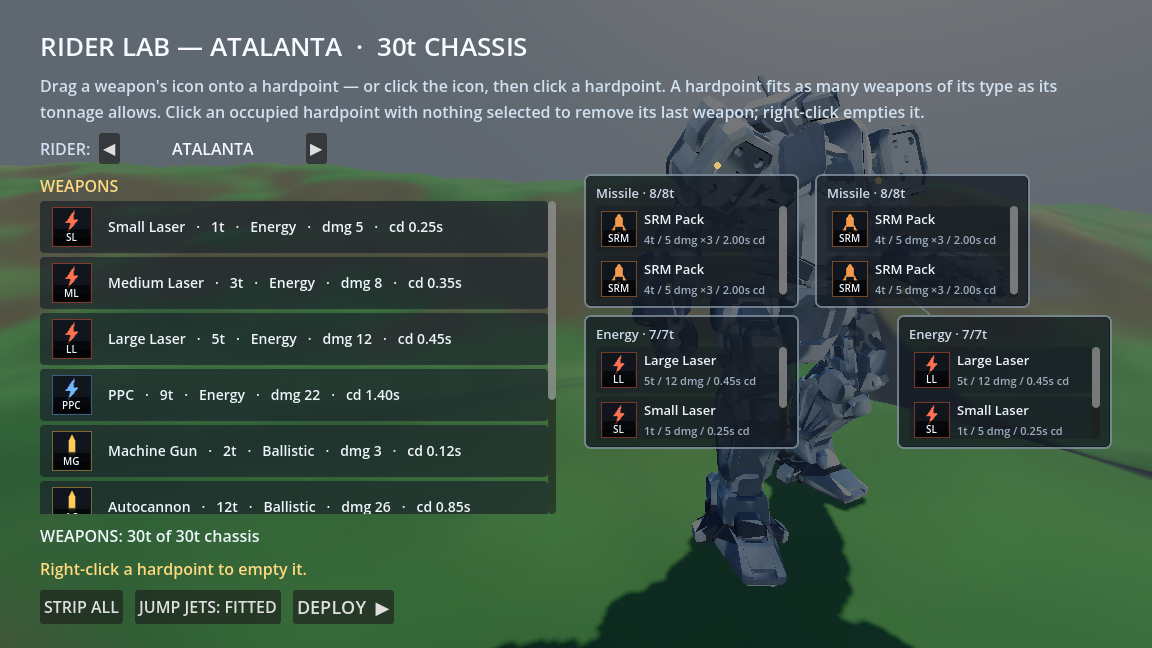
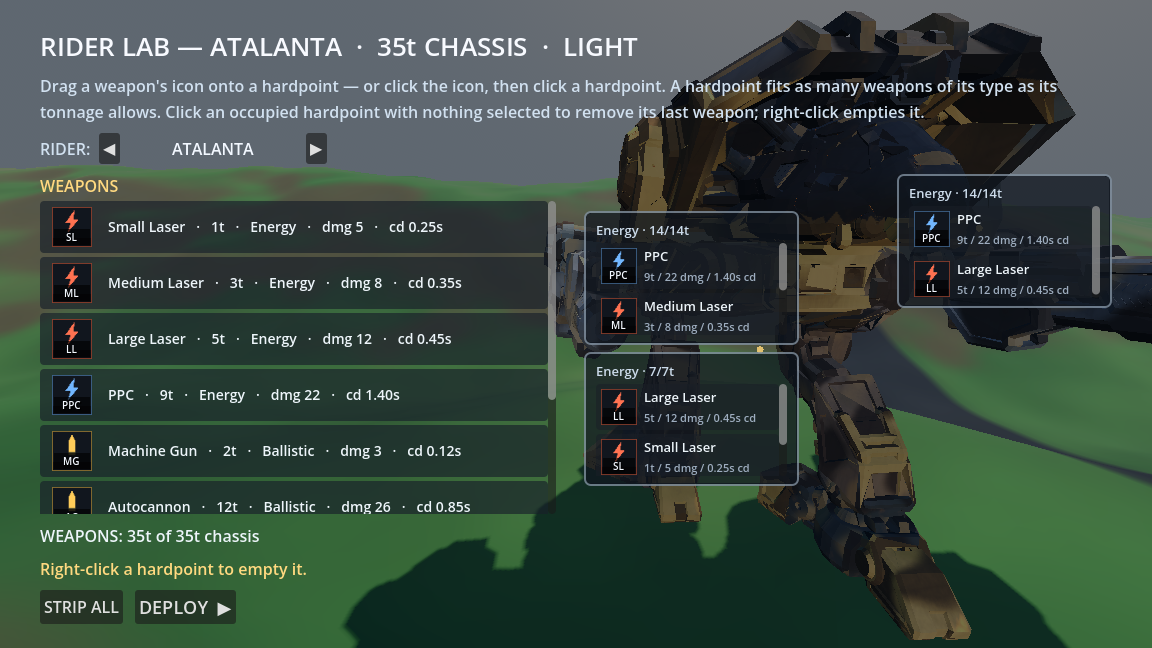
Renames: Apollo -> Atalanta (Adder), Atalanta -> Perseus (Cheetah); lab shows weight class; fused riders render double-sided
Spec ids/names and parts branches renamed to match. RiderSpec
gains ClassLabel (Light <40t, Medium <60t, Heavy 60t+) and the
lab title now reads e.g. 'ATALANTA · 35t CHASSIS · LIGHT'. The
cut-from-one-shell riders (atalanta, perseus) get double-sided
materials in RiderParts so open part seams show the dark interior
instead of see-through holes (owner's gun report).

Changed region(s): [[0.125, 0.0, 1.0, 1.0], [0.0625, 0.2469, 0.4062, 0.2778], [0.4688, 0.0617, 0.5625, 0.0926]]

diff --git a/godot/Data/RiderSpec.cs b/godot/Data/RiderSpec.cs
@@ -15,6 +15,9 @@ public sealed class RiderSpec
     public string Id;
     public string Name;
     public float Tonnage;
+    // Weight class for the lab label (owner, 2026-11-01):
+    // Light under 40t, Medium under 60t, Heavy from 60t.
+    public string ClassLabel => Tonnage < 40f ? "LIGHT" : Tonnage < 60f ? "MEDIUM" : "HEAVY";
     public bool JumpCapable; // chassis can mount jump jets (thrusters)
     public SlotDef[] Slots;
 
@@ -102,13 +105,13 @@ public static class RiderSpecs
 
     // Every chassis the lab can offer. Adding a rider = one new
     // RiderSpec + one entry here (+ its RiderParts layout and model).
-    // APOLLO (Adder ADR-Prime, 35t Light): the twin-PPC striker —
+    // ATALANTA (Adder ADR-Prime, 35t Light): the twin-PPC striker —
     // an energy mount in each arm and a small chest mount. Caps
     // sum to the 35t budget.
-    public static readonly RiderSpec Apollo = new()
+    public static readonly RiderSpec Atalanta = new()
     {
-        Id = "apollo", Name = "APOLLO", Tonnage = 35f, JumpCapable = false,
-        ModelPath = "res://assets/adder.fbx", PartsId = "apollo", MaxHp = 130f,
+        Id = "atalanta", Name = "ATALANTA", Tonnage = 35f, JumpCapable = false,
+        ModelPath = "res://assets/adder.fbx", PartsId = "atalanta", MaxHp = 130f,
         Height = 10.5f, Radius = 1.7f, StepTime = 0.44f, StepThreshold = 1.5f, StepLift = 0.8f, Accel = 5.0f, MaxSpeed = 4.2f,
         FlipKneePole = true,
         Slots = new[]
@@ -119,13 +122,13 @@ public static class RiderSpecs
         }
     };
 
-    // ATALANTA (Arctic Cheetah ACH-Prime, 30t Light): the fast
+    // PERSEUS (Arctic Cheetah ACH-Prime, 30t Light): the fast
     // jumper — an energy mount in each arm and an SRM pod on each
     // shoulder. Caps sum to the 30t budget.
-    public static readonly RiderSpec Atalanta = new()
+    public static readonly RiderSpec Perseus = new()
     {
-        Id = "atalanta", Name = "ATALANTA", Tonnage = 30f, JumpCapable = true,
-        ModelPath = "res://assets/cheetah.fbx", PartsId = "atalanta", MaxHp = 115f,
+        Id = "perseus", Name = "PERSEUS", Tonnage = 30f, JumpCapable = true,
+        ModelPath = "res://assets/cheetah.fbx", PartsId = "perseus", MaxHp = 115f,
         Height = 10.0f, Radius = 1.6f, StepTime = 0.40f, StepThreshold = 1.4f, StepLift = 0.85f, Accel = 5.4f, MaxSpeed = 4.2f,
         FlipKneePole = false, // digitigrade legs: the mid joint bends back
         Slots = new[]
@@ -137,7 +140,7 @@ public static class RiderSpecs
         }
     };
 
-    public static readonly RiderSpec[] All = { Enyo, Hector, Prometheus, Apollo, Atalanta };
+    public static readonly RiderSpec[] All = { Enyo, Hector, Prometheus, Atalanta, Perseus };
 
     public static RiderSpec ById(string id)
     {
@@ -252,16 +255,16 @@ public sealed class LoadoutState
     public static LoadoutState DefaultFor(RiderSpec spec) =>
         spec.Id == "hector" ? DefaultHector()
         : spec.Id == "prometheus" ? DefaultPrometheus()
-        : spec.Id == "apollo" ? DefaultApollo()
         : spec.Id == "atalanta" ? DefaultAtalanta()
+        : spec.Id == "perseus" ? DefaultPerseus()
         : DefaultEnyo();
 
-    public static LoadoutState DefaultAtalanta()
+    public static LoadoutState DefaultPerseus()
     {
         var l = new LoadoutState();
         l.JumpJets = true;
         // Every slot filled (owner, 2026-10-31): 30t of 30t.
-        var at = RiderSpecs.Atalanta;
+        var at = RiderSpecs.Perseus;
         l.TryAssign(at, "arm_L", WeaponCatalog.LargeLaser);
         l.TryAssign(at, "arm_L", WeaponCatalog.SmallLaser);
         l.TryAssign(at, "arm_L", WeaponCatalog.SmallLaser);        // 7/7t
@@ -275,12 +278,12 @@ public sealed class LoadoutState
         return l;
     }
 
-    public static LoadoutState DefaultApollo()
+    public static LoadoutState DefaultAtalanta()
     {
         var l = new LoadoutState();
         l.JumpJets = false; // the chassis cannot mount them
         // Every slot filled (owner, 2026-10-31): 35t of 35t.
-        var ap = RiderSpecs.Apollo;
+        var ap = RiderSpecs.Atalanta;
         l.TryAssign(ap, "arm_L", WeaponCatalog.Ppc);
         l.TryAssign(ap, "arm_L", WeaponCatalog.LargeLaser);        // 14/14t
         l.TryAssign(ap, "arm_R", WeaponCatalog.Ppc);

diff --git a/godot/RiderParts.cs b/godot/RiderParts.cs
@@ -160,7 +160,7 @@ public sealed class RiderParts
             AddPart("leg_R", "RIGHT LEG", 90f, byName,
                 "Thigh_R", "Knee_R", "Shin_R", "Foot_R");
         }
-        else if (riderId == "apollo")
+        else if (riderId == "atalanta")
         {
             // Adder miniature, cut at build time: the head is the
             // cockpit hood region split out of the Torso mesh.
@@ -177,7 +177,7 @@ public sealed class RiderParts
             AddPart("leg_L", "LEFT LEG", 65f, byName, "Thigh_L", "Shin_L", "Foot_L");
             AddPart("leg_R", "RIGHT LEG", 65f, byName, "Thigh_R", "Shin_R", "Foot_R");
         }
-        else if (riderId == "atalanta")
+        else if (riderId == "perseus")
         {
             // Arctic Cheetah miniature, cut at build time; the
             // shoulder pods are their own meshes. Head = cockpit
@@ -221,6 +221,35 @@ public sealed class RiderParts
         foreach (var part in _parts.Values)
             centers += $" {part.Id}={PartCenterWorld(part.Id)}";
         GD.Print(centers);
+
+        // The fused-miniature builds (atalanta, perseus) are cut
+        // from one shell, so their parts have open seams; with
+        // backface culling on, a seam reads as a see-through hole
+        // (owner report, 2026-11-01: visible through Atalanta's
+        // gun). Render those riders' materials double-sided so a
+        // seam shows the part's dark interior instead of the sky.
+        if (_riderId == "atalanta" || _riderId == "perseus")
+        {
+            var dupCache = new Dictionary<Material, Material>();
+            foreach (var part in _parts.Values)
+                foreach (var rec in part.Meshes)
+                {
+                    var mesh = rec.Mi.Mesh;
+                    if (mesh == null) continue;
+                    for (int si = 0; si < mesh.GetSurfaceCount(); si++)
+                    {
+                        var mat = rec.Mi.GetSurfaceOverrideMaterial(si) ?? mesh.SurfaceGetMaterial(si);
+                        if (mat is not StandardMaterial3D sm) continue;
+                        if (!dupCache.TryGetValue(sm, out var dup))
+                        {
+                            dup = (StandardMaterial3D)sm.Duplicate();
+                            ((StandardMaterial3D)dup).CullMode = BaseMaterial3D.CullModeEnum.Disabled;
+                            dupCache[sm] = dup;
+                        }
+                        rec.Mi.SetSurfaceOverrideMaterial(si, dup);
+                    }
+                }
+        }
     }
 
     // ---------- registry construction ----------

diff --git a/godot/RiderLab.cs b/godot/RiderLab.cs
@@ -513,7 +513,7 @@ public partial class RiderLab : Control
         root.OffsetLeft = 40; root.OffsetTop = 28; root.OffsetRight = -40; root.OffsetBottom = -24;
         AddChild(root);
 
-        var title = new Label { Text = $"RIDER LAB — {Spec.Name}  ·  {Spec.Tonnage:F0}t CHASSIS" };
+        var title = new Label { Text = $"RIDER LAB — {Spec.Name}  ·  {Spec.Tonnage:F0}t CHASSIS  ·  {Spec.ClassLabel}" };
         title.AddThemeFontSizeOverride("font_size", 26);
         title.AddThemeColorOverride("font_color", new Color(0.97f, 0.98f, 1f));
         root.AddChild(title);
